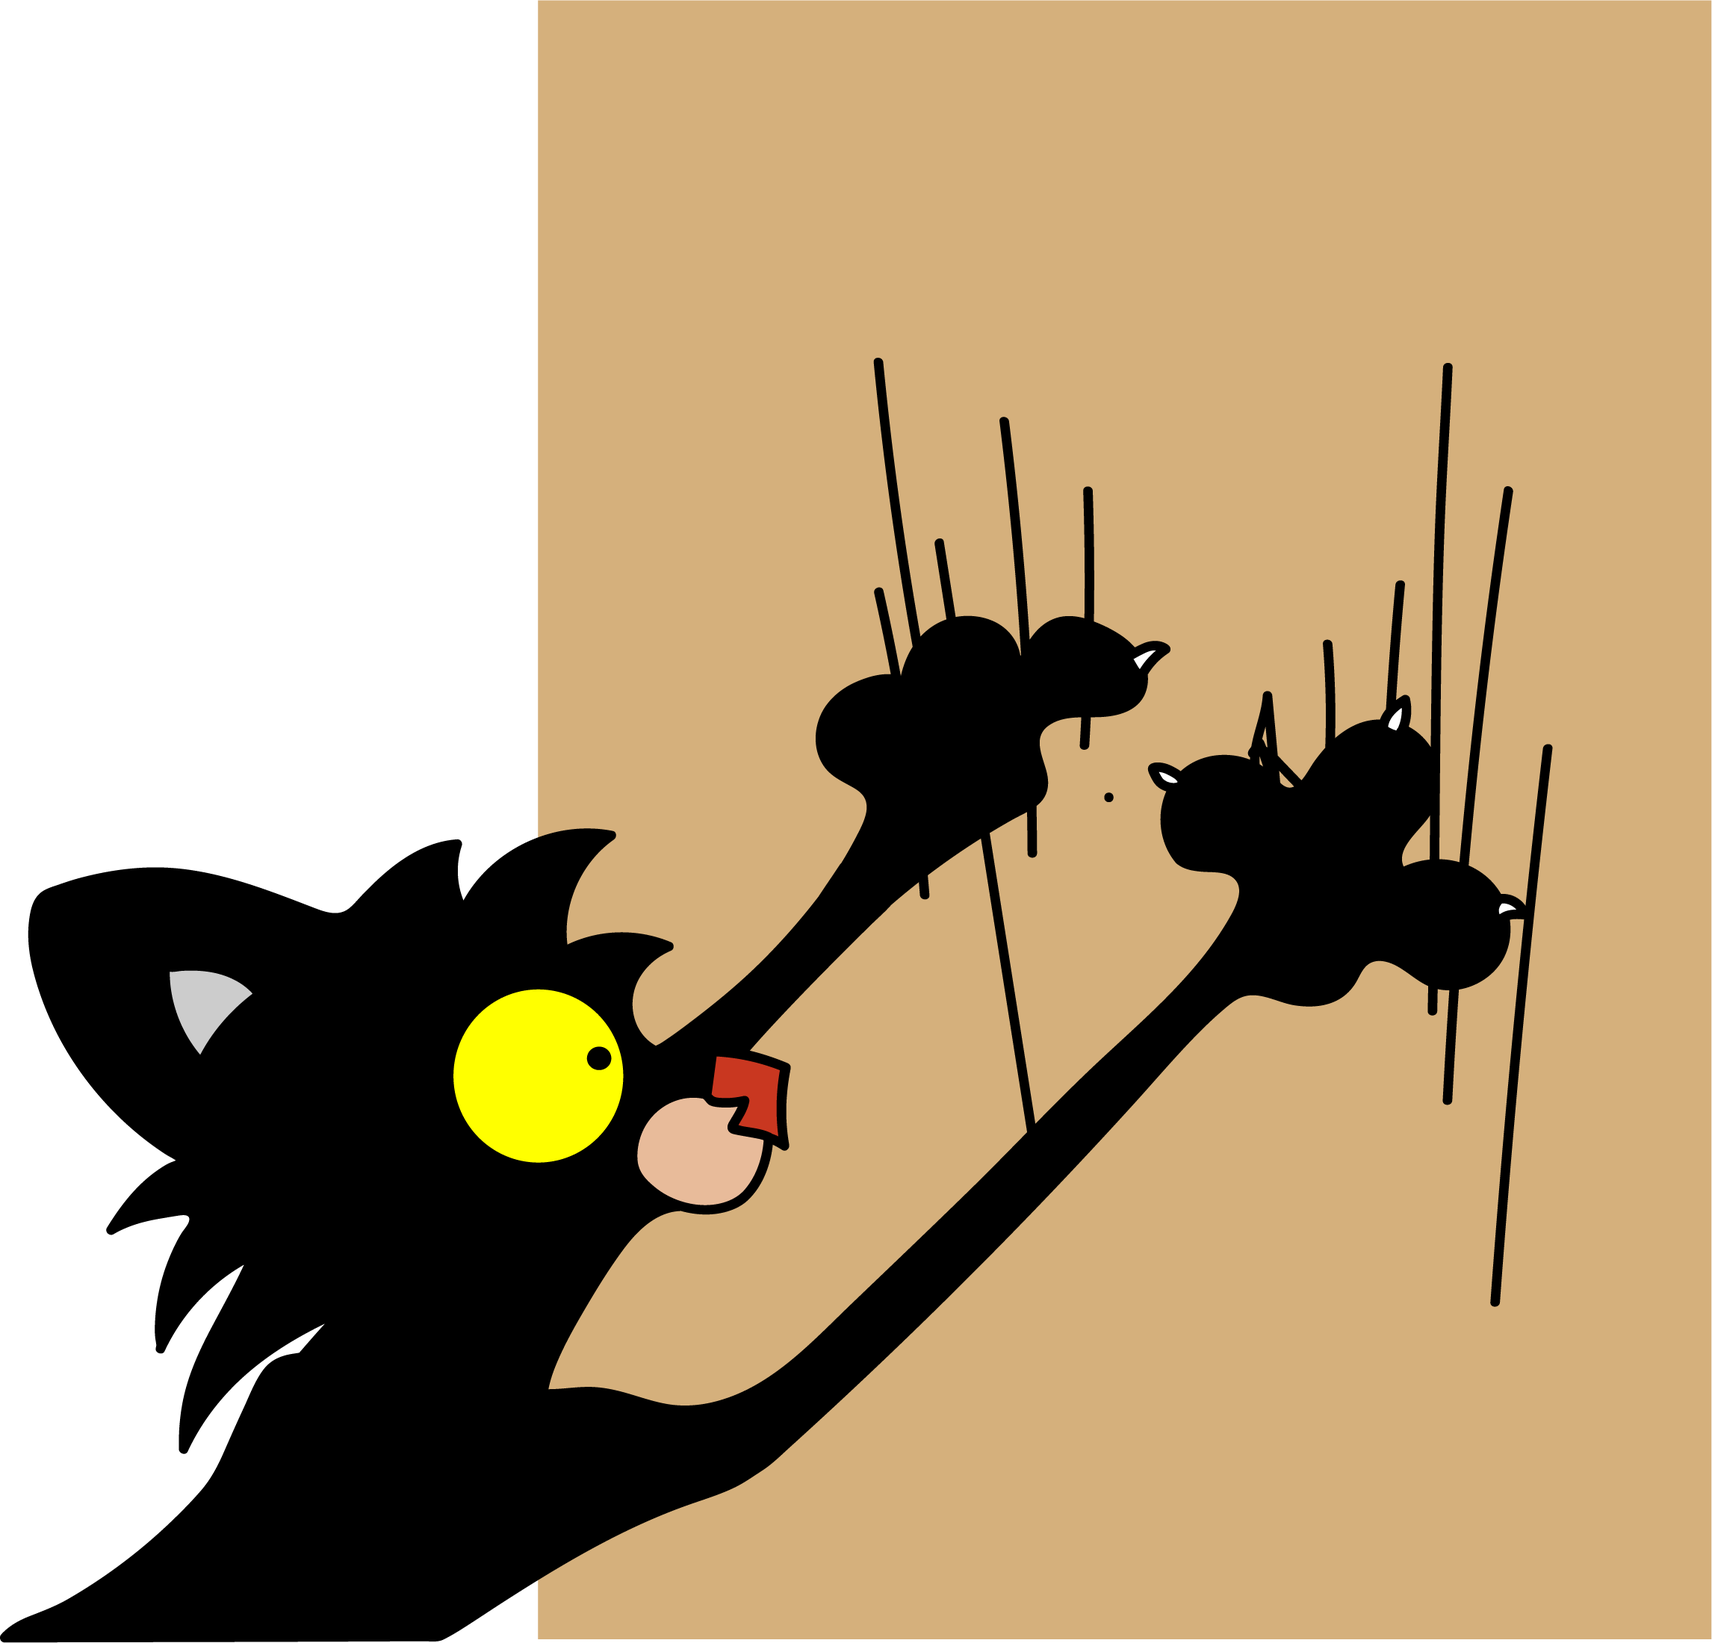
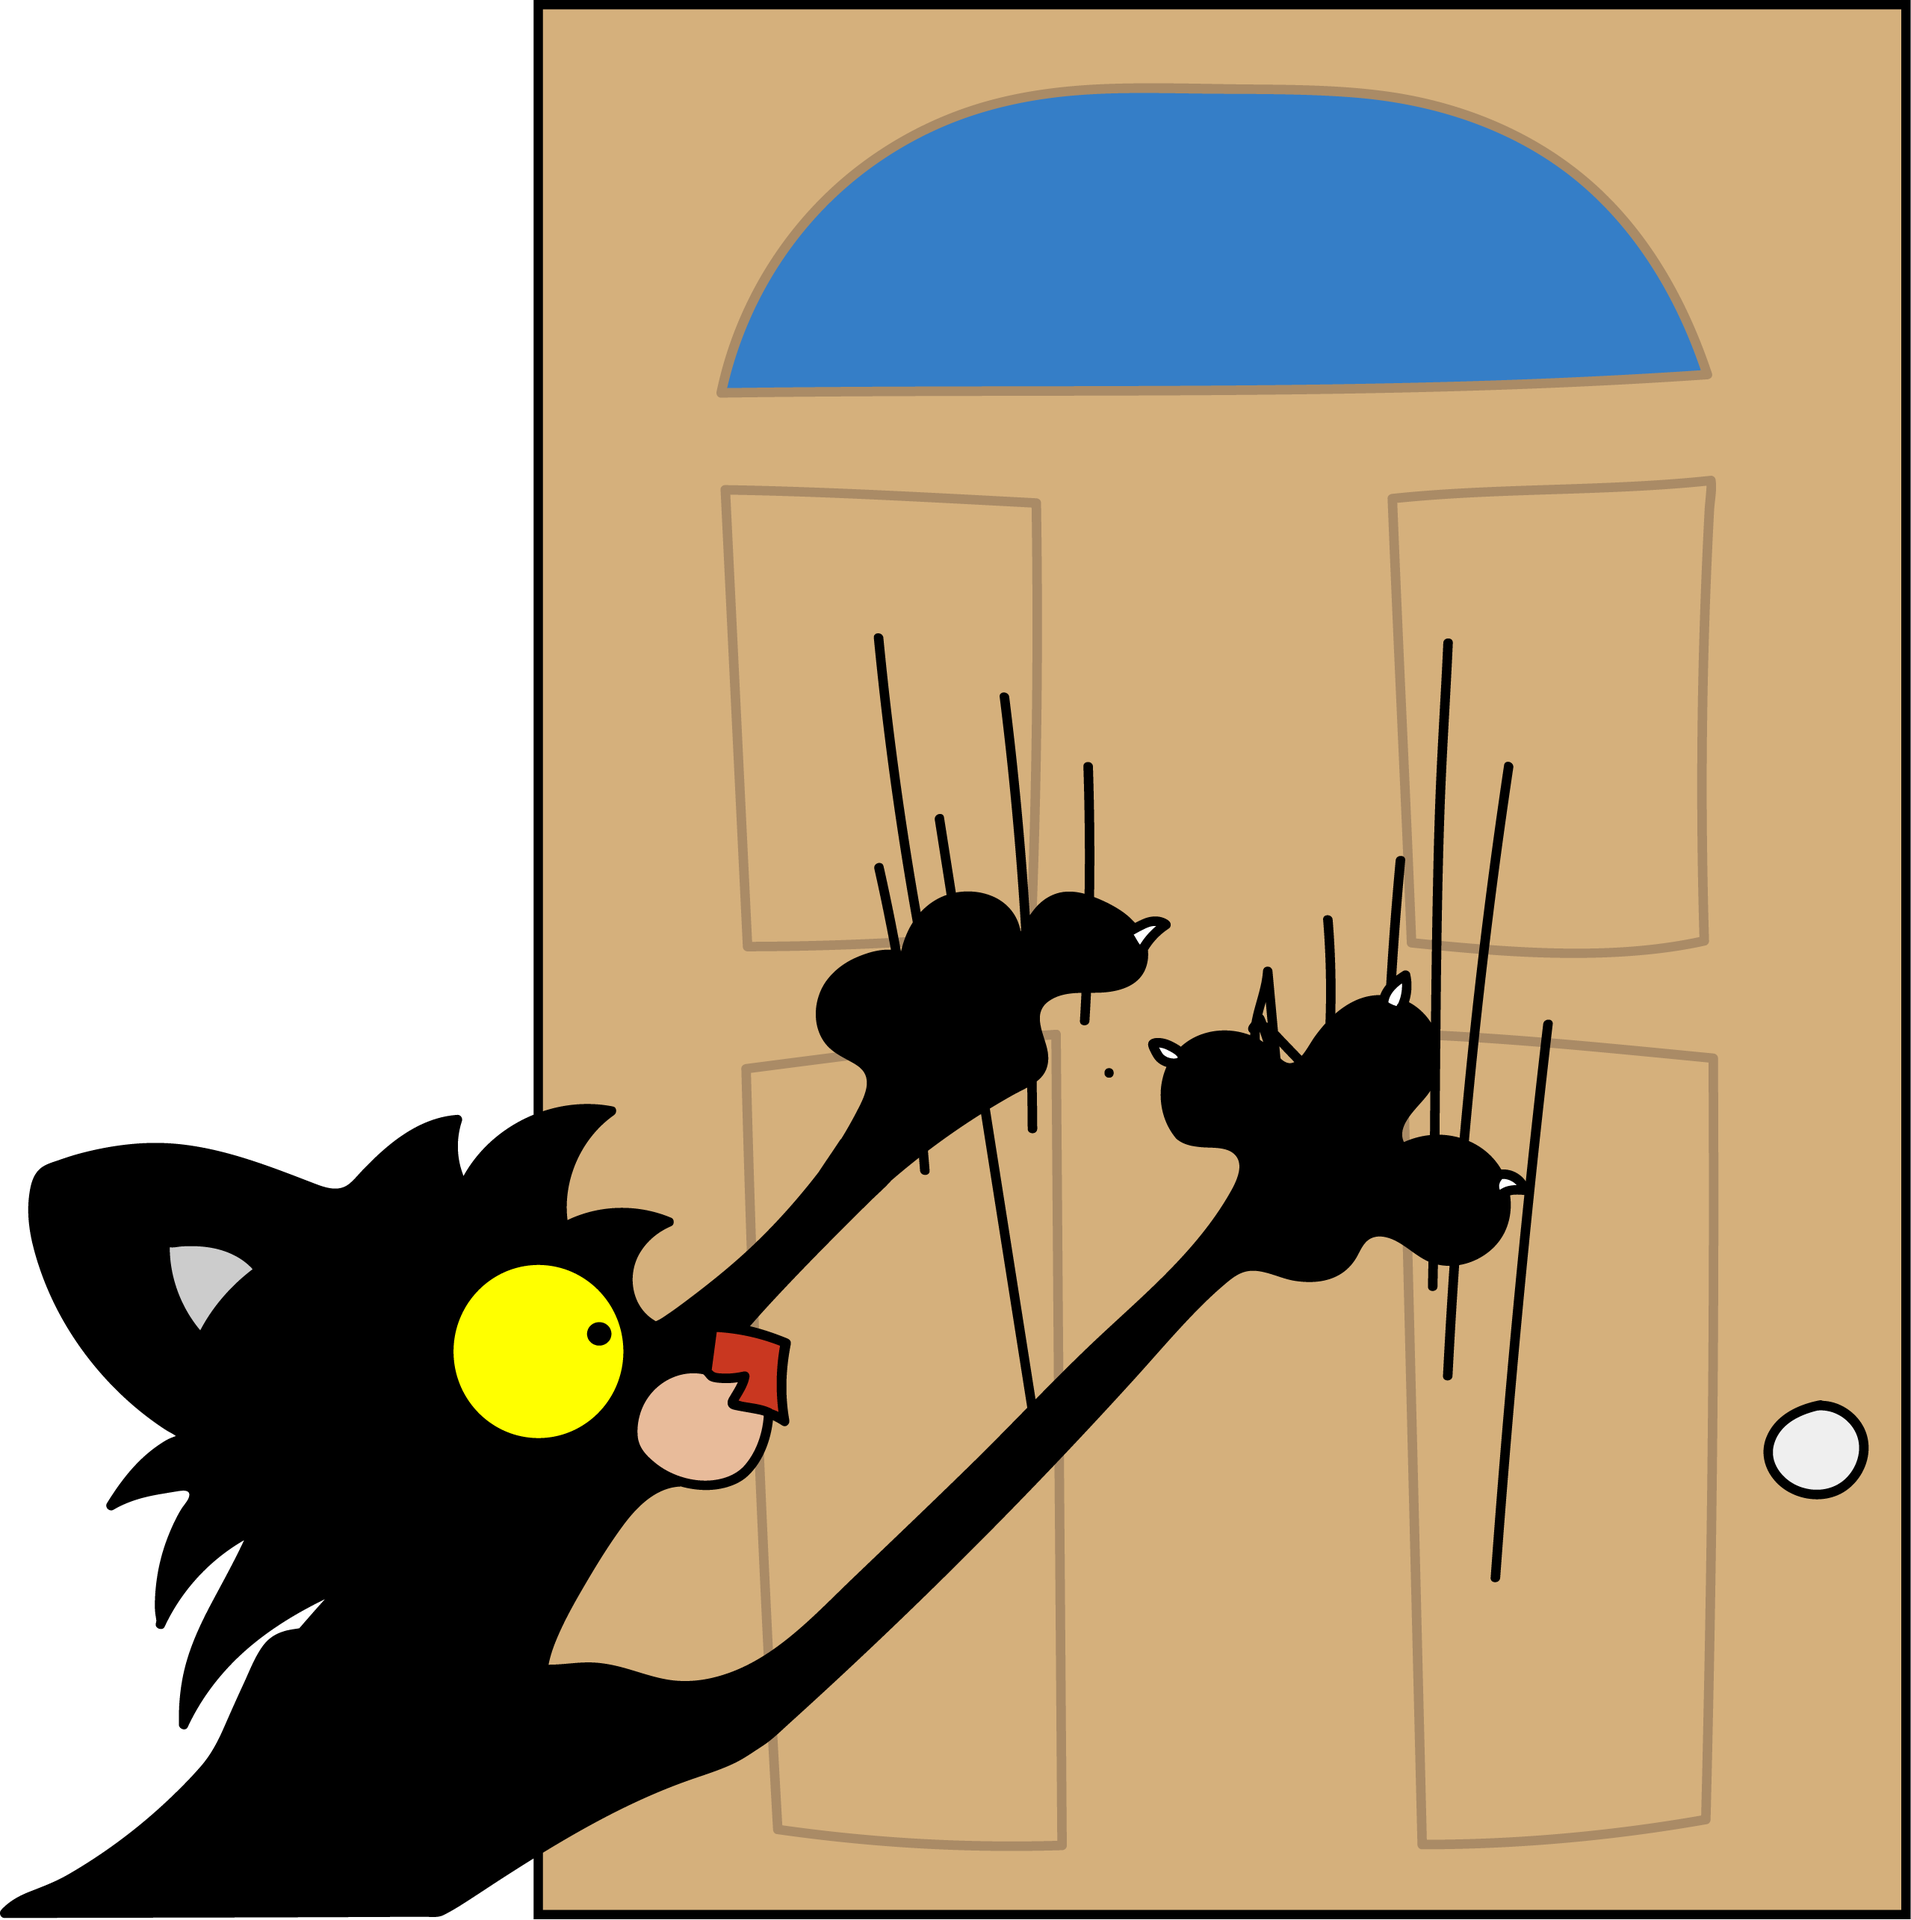
front-end edits

diff --git a/game.css b/game.css
@@ -285,7 +285,7 @@ h3{
     width: 656px;
     height: 300px;
     margin-top: 87px;
-    border: 1px solid black;
+    border: 2px solid black;
     
 }
 #panel-2 {
@@ -293,19 +293,19 @@ h3{
     margin-right: 50px;
     width: 300px;
     height: 600px;
-    border: 1px solid black
+    border: 2px solid black
 }
 #panel-3 {
     margin-top: 50px;
     width: 300px;
     height: 272px;
-    border: 1px solid black
+    border: 2px solid black
 }
 #panel-4 {
     margin-top: 50px;
     width: 300px;
     height: 272px;
-    border: 1px solid black
+    border: 2px solid black
 }
 
 #panel-5 {
@@ -314,7 +314,7 @@ h3{
     margin-top: 50px;
     width: 450px;
     height: 136px;
-    border: 1px solid black;
+    border: 2px solid black;
 
 }
 #panel-6 {
@@ -324,7 +324,7 @@ h3{
     margin-top: 50px;
     width: 450px;
     height: 400px;
-    border: 1px solid black;
+    border: 2px solid black;
     margin: auto;
     margin-top: 15px;
 
@@ -338,7 +338,7 @@ h3{
     margin-top: 50px;
     width: 270px;
     height: 312px;
-    border: 1px solid black;
+    border: 2px solid black;
     margin-right: 52px
     
 }
@@ -358,7 +358,7 @@ h3{
    margin-top: 50px;
    width: 270px;
    height: 312px;
-   border: 1px solid black;
+   border: 2px solid black;
    margin-left: 52px
 
    
@@ -647,7 +647,7 @@ html, body {
 }
 
 #door-scratch {
-    width: 94.5%
+    width: 90.3%
 }
 
 

diff --git a/game.js b/game.js
@@ -201,8 +201,8 @@ window.addEventListener('DOMContentLoaded', (event) => {
                 document.getElementById('treatbagcounter').style.display = 'block';
                 document.getElementById('treatbagopen').style.display = 'block';
             } else if (JSON.parse(sessionStorage.getItem('treat-choice')).id === "tuna-thought") {
-                // document.getElementById('treatbagcounter').style.display = 'block';
-                // document.getElementById('treatbagopen').style.display = 'block';
+                // document.getElementById('tunacounter').style.display = 'block';
+                // document.getElementById('tunaopen').style.display = 'block';
             }
 
             treats.filter((treat) => treat !== event.target).forEach((treat) => { treat.style.display = 'none' });
